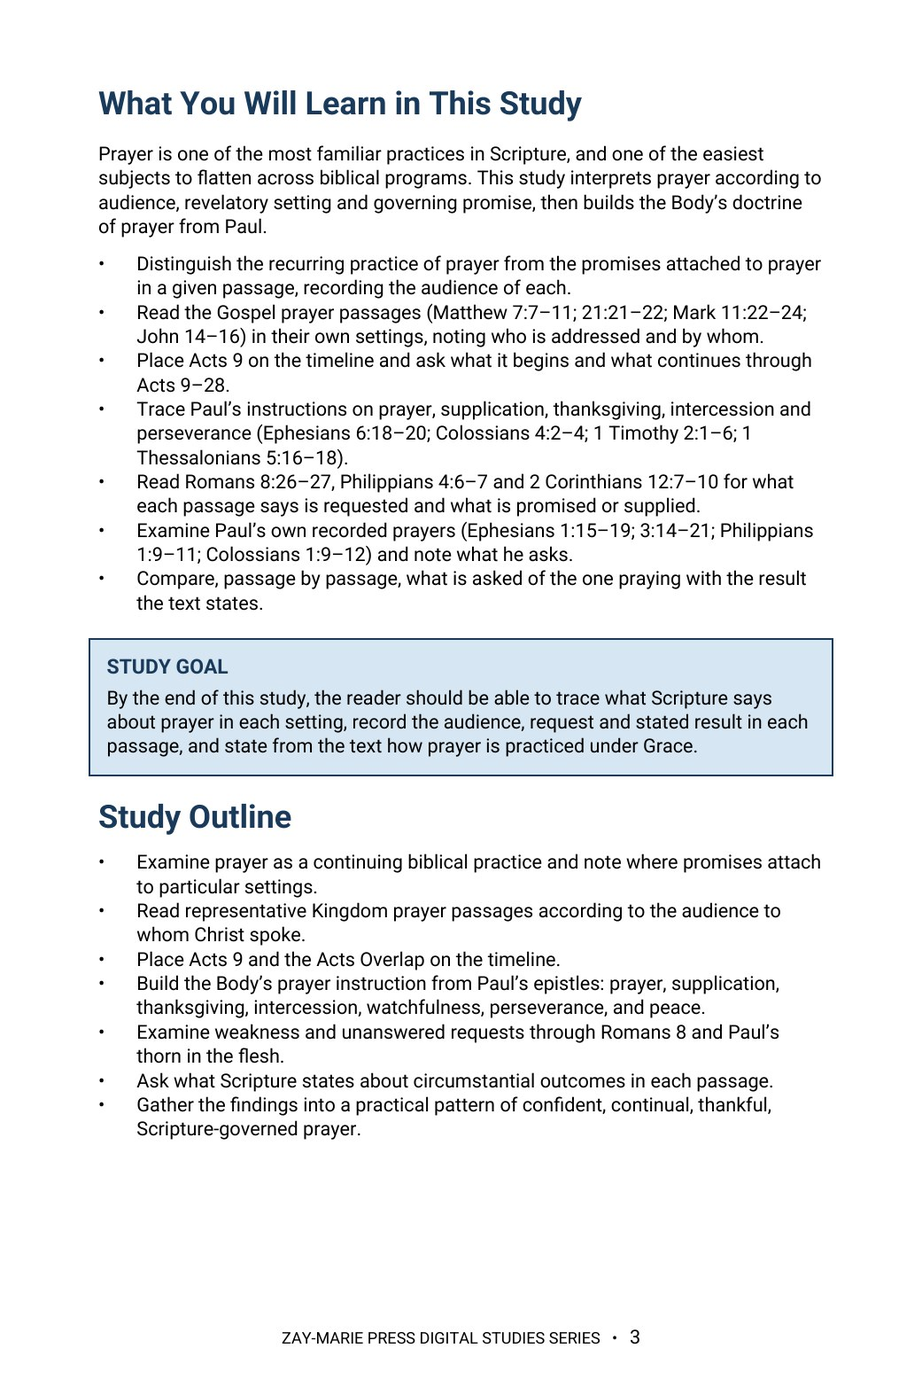
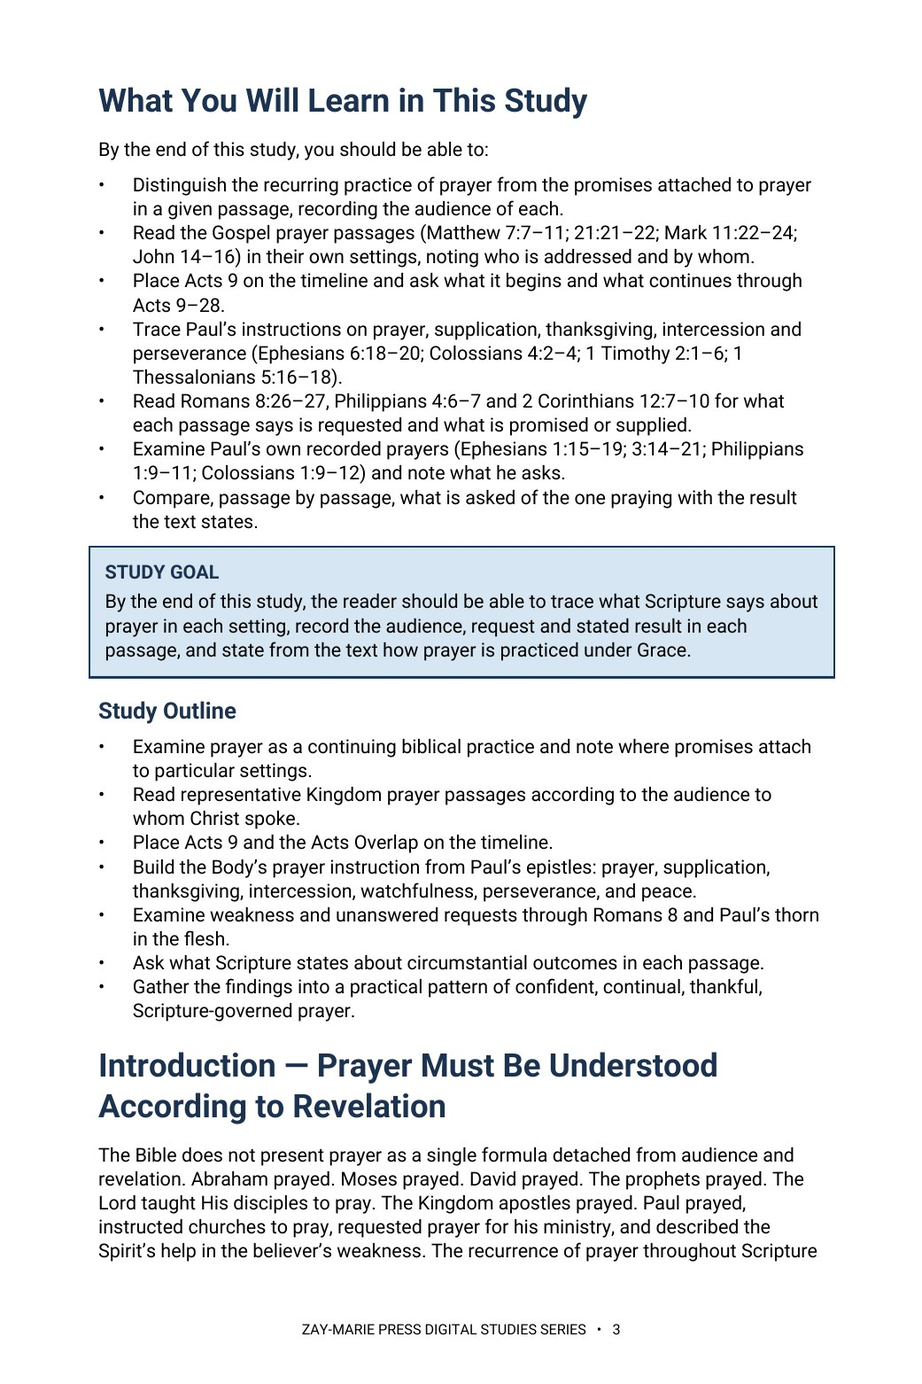
Study 22: rebuilt in Roboto 10 pt on current page (15 pages); previews 2, 3, 4 re-rendered; site.js 22:15; trackers v1.107/v1.201
Claude-Session: https://claude.ai/code/session_01HC7bs9KYP2scp4hCL6DkTp

Changed region(s): [[0.0922, 0.0615, 0.9222, 0.9219], [0.3074, 0.9526, 0.6455, 0.9834]]

diff --git a/study-22-prayer-under-grace.html b/study-22-prayer-under-grace.html
@@ -14,7 +14,7 @@
   <body class="study-detail-page">
     <header class="site-header"><div class="wrap nav"><a class="logo" href="index.html" aria-label="Zay-Marie Press home"><img src="assets/zay-marie-press-logo-hq.png" alt="Zay-Marie Press" width="420" height="238" /></a><button class="menu-toggle" type="button" aria-expanded="false" aria-controls="primary-nav">MENU</button><nav aria-label="Primary navigation" class="primary-nav" id="primary-nav"><a href="index.html">HOME</a><a href="books.html">BOOKS</a><a href="series.html">SERIES</a><a class="active" aria-current="page" href="digital-studies.html">DIGITAL STUDIES</a><a href="biblical-hermeneutics-course.html">COURSE</a><a href="about.html">ABOUT</a><a href="resources.html">RESOURCES</a><a href="contact.html">CONTACT</a></nav></div></header>
     <main>
-      <section class="detail-hero"><div class="wrap detail-hero-grid"><div class="detail-cover"><picture><source srcset="assets/study-22-cover.webp" type="image/webp"><img src="assets/study-22-cover.jpg" alt="Prayer Under Grace - Study 22 cover" /></picture></div><div><div class="eyebrow">STUDY 22 · DIGITAL STUDY</div><h1>Prayer Under Grace</h1><p class="detail-subtitle">Understanding Prayer in the Believer’s Grace Standing, Not Covenant Obligation</p><p class="detail-kicker">A Biblical Study of Kingdom Promises, Pauline Instruction, and Confident Prayer</p><p class="detail-copy">Prayer remains vital under Grace, but every biblical prayer promise must be read in the audience and revelatory setting in which God gave it. Kingdom promises spoken to Israel and the Twelve retain their full force in their own setting; Paul’s instruction gives the Body of Christ its governing doctrine of prayer.</p><p class="detail-copy">This study traces Paul’s teaching on requests, thanksgiving, intercession, peace, weakness, and sufficient grace. It equips believers to pray confidently, specifically, and continually while resting in God’s wisdom and will.</p><div class="detail-buyline"><span class="detail-price">$5.99</span><span class="detail-format">Digital PDF · 16 Pages</span><span class="detail-button pending" aria-disabled="true">Checkout Coming Soon</span></div></div></div></section>
+      <section class="detail-hero"><div class="wrap detail-hero-grid"><div class="detail-cover"><picture><source srcset="assets/study-22-cover.webp" type="image/webp"><img src="assets/study-22-cover.jpg" alt="Prayer Under Grace - Study 22 cover" /></picture></div><div><div class="eyebrow">STUDY 22 · DIGITAL STUDY</div><h1>Prayer Under Grace</h1><p class="detail-subtitle">Understanding Prayer in the Believer’s Grace Standing, Not Covenant Obligation</p><p class="detail-kicker">A Biblical Study of Kingdom Promises, Pauline Instruction, and Confident Prayer</p><p class="detail-copy">Prayer remains vital under Grace, but every biblical prayer promise must be read in the audience and revelatory setting in which God gave it. Kingdom promises spoken to Israel and the Twelve retain their full force in their own setting; Paul’s instruction gives the Body of Christ its governing doctrine of prayer.</p><p class="detail-copy">This study traces Paul’s teaching on requests, thanksgiving, intercession, peace, weakness, and sufficient grace. It equips believers to pray confidently, specifically, and continually while resting in God’s wisdom and will.</p><div class="detail-buyline"><span class="detail-price">$5.99</span><span class="detail-format">Digital PDF · 15 Pages</span><span class="detail-button pending" aria-disabled="true">Checkout Coming Soon</span></div></div></div></section>
       <section class="detail-section"><div class="wrap"><div class="eyebrow">ABOUT THIS STUDY</div><h2>What Does Prayer Under Grace Mean?</h2><p class="lead">Prayer did not begin with the Mystery, and it is not diminished under Grace. Scripture records prayer throughout its history, yet a recurring practice does not make every promise attached to prayer identical for every audience.</p><p class="lead">This study reads the Kingdom prayer promises in their original setting, preserves the Acts Overlap of Prophecy and Mystery, and builds the Body’s practice of prayer from the revelation given through Paul. It shows how Philippians 4, Romans 8, and 2 Corinthians 12 shape confident prayer when circumstances remain unchanged.</p><p class="lead">This is not a study of the believer’s whole standing in Christ, which Study 16 surveys in full, nor of the general method for learning from Scripture addressed to Israel, which Study 39 supplies, nor of another practice reframed under grace, which Study 47 traces for giving. Its task is narrower: to read the Kingdom’s own prayer promises in their original setting, and to build the Body’s actual practice of prayer from what Paul himself reveals — not from a Kingdom-era promise transferred without its terms.</p><div class="study-distinction"><h3>How These Studies Relate</h3><p>Study 22 establishes prayer under grace from Paul while reading Kingdom prayer promises in their own setting.</p><p><a href="study-16-the-believers-identity-in-christ.html">Study 16 — The Believer's Identity in Christ</a> Place prayer within the believer’s present standing in Christ; this helps relate confidence before God to daily practice without promising a particular change in circumstances.</p><p><a href="study-39-the-churchs-relationship-to-israels-scriptures.html">Study 39 — The Church’s Relationship to Israel’s Scriptures</a> Use the distinction between learning from earlier Scripture and claiming a promise addressed to another audience when reading prayer teaching outside Paul’s letters.</p><p><a href="study-47-giving-under-grace.html">Study 47 — Giving Under Grace</a> Compare another practice of the believer's daily life reframed under grace rather than under a Kingdom-era command, the same interpretive move this study applies to prayer.</p><p class="connection-guide-link"><a href="study-connections.html#study-22">Explore the full connection guide for Study 22 →</a></p></div><div class="cross-strand-note"><p class="cross-strand-label">FROM THE PARABLES STRAND</p><p>The Friend and the Persistent Widow gives a related but distinct prayer instruction, addressed to Kingdom hearers rather than the Body of Christ.</p><p><a href="parable-25-the-friend-and-the-persistent-widow.html">The Friend and the Persistent Widow</a></p></div></div></section>
       <section class="detail-section soft"><div class="wrap"><div class="eyebrow">WHAT YOU’LL STUDY</div><h2>Build a Confident Pattern of Prayer Under Grace</h2><div class="study-points">
         <div class="study-point"><h3>Prayer Across Scripture</h3><p>Trace prayer's presence across the Old Testament, the Gospels, and Acts, and ask which audience and setting each recorded promise actually addresses.</p></div>
@@ -41,7 +41,7 @@
         <div class="preview-card"><a class="preview-image-link" data-preview-lightbox href="assets/study-22-page-4.jpg"><img src="assets/study-22-page-4.jpg" alt="Study 22 interior preview — page 4, Introduction" /></a><div class="page-no">Page 4</div><h3>Introduction</h3><p>See how the study frames prayer by audience, revelation and governing promise.</p></div>
       </div></div></section>
       <section class="detail-section"><div class="wrap"><div class="eyebrow">WHAT’S INCLUDED</div><h2>A Focused Study Built for<br />Understanding and Teaching</h2><div class="includes-grid">
-        <div class="include-item"><h3>16-Page Biblical Study</h3><p>A focused study of Kingdom prayer promises and Pauline instruction for the Body of Christ.</p></div>
+        <div class="include-item"><h3>15-Page Biblical Study</h3><p>A focused study of Kingdom prayer promises and Pauline instruction for the Body of Christ.</p></div>
         <div class="include-item"><h3>A Full Teaching Outline</h3><p>Follow the argument from Kingdom prayer promises to Paul's own commands for the Body.</p></div>
         <div class="include-item"><h3>Pauline Prayer Instruction</h3><p>Trace requests, thanksgiving, intercession, peace, and sufficient grace through Paul's own letters.</p></div>
         <div class="include-item"><h3>Kingdom Promise Context</h3><p>Examine Christ's upper-room prayer promises in their own setting before any later application.</p></div>
@@ -50,7 +50,7 @@
         <div class="include-item"><h3>Scripture-Tracing Exercise</h3><p>Trace Kingdom and Pauline passages in their own audiences and revealed settings.</p></div>
         <div class="include-item"><h3>Teaching and Discussion Tools</h3><p>Use review questions, a teaching outline, further study, and final synthesis for personal or group use.</p></div>
       </div></div></section>
-      <section class="detail-section cream"><div class="wrap"><div class="final-buy"><div><div class="eyebrow">STUDY 22 · DIGITAL STUDY</div><h2>Prayer Under Grace</h2><p>16-page digital PDF · For personal use</p></div><div class="final-offer"><div class="detail-price">$5.99</div><span class="detail-button pending" aria-disabled="true">Checkout Coming Soon</span></div></div><a class="back-link" href="digital-studies.html">← Back to All Digital Studies</a></div></section>
+      <section class="detail-section cream"><div class="wrap"><div class="final-buy"><div><div class="eyebrow">STUDY 22 · DIGITAL STUDY</div><h2>Prayer Under Grace</h2><p>15-page digital PDF · For personal use</p></div><div class="final-offer"><div class="detail-price">$5.99</div><span class="detail-button pending" aria-disabled="true">Checkout Coming Soon</span></div></div><a class="back-link" href="digital-studies.html">← Back to All Digital Studies</a></div></section>
     <section class="study-method-course-bridge"><div class="wrap"><div class="study-method-course-panel"><div><div class="eyebrow">BUILD THE INTERPRETIVE METHOD</div><h2>Want More Than a Focused Study?</h2><p>Digital Studies examine particular biblical subjects and difficult passages. The 40-lesson Biblical Hermeneutics course teaches a complete, repeatable method for establishing meaning in context, determining proper assignment, and making responsible application.</p></div><a class="btn btn-primary" href="biblical-hermeneutics-course.html">BIBLICAL HERMENEUTICS COURSE</a></div></div></section></main><footer class="site-footer"><div class="wrap footer-grid"><div class="footer-about"><h3>Zay-Marie Press</h3><p class="footer-tagline"><em>Where the Bible Means What It Says.</em></p><p>Zay-Marie Press is a Christian theological publisher dedicated to producing doctrinally precise, carefully structured biblical resources that equip pastors, teachers, and serious students with clarity, depth, and Scripture-anchored truth.</p><p><a href="https://zaymariepress.com">zaymariepress.com</a><br/><a href="mailto:info@zaymariepress.com">info@zaymariepress.com</a></p></div><div class="footer-column"><h3>Explore</h3><div class="footer-links-stacked"><a href="books.html">Books</a><br/><a href="series.html">Series</a><br/><a href="biblical-hermeneutics-course.html">Course</a><br/><a href="digital-studies.html">Digital Studies</a><br/><a href="resources.html">Resources</a><br/><a href="bible-book-summaries.html">Bible Book Summaries</a><br/><a href="doctrinal-packets.html">Doctrinal Packets</a><br/><a href="historical-drift.html">Historical Drift</a><br/><a href="about.html">About</a><br/><a href="contact.html">Contact</a></div></div><div class="footer-column"><h3>Reader Support</h3><div class="footer-links-stacked"><a href="reader-support.html#faq">FAQ</a><br/><a href="reader-support.html#shipping-returns">Shipping &amp; Returns</a><br/><a href="reader-support.html#digital-downloads">Digital Downloads</a><br/><a href="reader-support.html#contact-support">Contact Support</a></div></div><div class="footer-column"><h3>Acts Overlap</h3><p><strong>Acts Overlap Theology Series</strong></p><p><em>Two Distinct Streams. One Overlap.</em></p><p><a href="series.html">Series Overview</a></p></div></div><div class="wrap footer-bottom">© 2026 Zay-Marie Press. All rights reserved.</div></footer>
     <div class="preview-lightbox" id="preview-lightbox" role="dialog" aria-modal="true" aria-label="Expanded study preview"><button class="preview-lightbox-close" type="button" aria-label="Close preview">×</button><img id="preview-lightbox-image" alt="" /></div>
     <script>

diff --git a/site.js b/site.js
@@ -62,7 +62,7 @@ const resourceModal=document.querySelector('#resource-modal'), resourceModalTitl
 if(resourceModal&&resourceModalTriggers.length){const closeResourceModal=()=>{resourceModal.hidden=true;document.body.classList.remove('resource-modal-open');lastResourceTrigger?.focus();};resourceModalTriggers.forEach(trigger=>trigger.addEventListener('click',()=>{lastResourceTrigger=trigger;if(resourceModalTitle)resourceModalTitle.textContent=trigger.dataset.title||'Resource';if(resourceModalDescription)resourceModalDescription.textContent=trigger.dataset.description||'';if(resourceModalLink){resourceModalLink.href=trigger.dataset.href||'#';resourceModalLink.textContent=trigger.dataset.linkText||'OPEN RESOURCE';}resourceModal.hidden=false;document.body.classList.add('resource-modal-open');resourceModalClose?.focus();}));resourceModalClose?.addEventListener('click',closeResourceModal);resourceModal.addEventListener('click',e=>{if(e.target===resourceModal)closeResourceModal();});document.addEventListener('keydown',e=>{if(e.key==='Escape'&&!resourceModal.hidden)closeResourceModal();});}
 
 /* Display the verified final-PDF page count at the primary purchase decision point. */
-const digitalStudyPageCounts={1:17,2:19,3:16,4:17,5:15,6:15,7:14,8:13,9:15,10:20,11:15,12:15,13:18,14:15,15:15,16:16,17:17,18:18,19:16,20:15,21:16,22:16,23:14,24:16,25:17,26:16,27:16,28:16,29:19,30:17,31:18,32:19,33:18,34:16,35:16,36:16,37:16,38:16,39:16,40:16,41:16,42:17,43:17,44:19,45:19,46:20,47:19,48:18,49:20,50:19,51:20,52:19,53:19,54:17,55:20,56:20,57:20,58:19,59:20,60:15,61:16,62:18,63:17,64:17,65:16,66:16,67:17,68:16,69:17,70:17,71:16};
+const digitalStudyPageCounts={1:17,2:19,3:16,4:17,5:15,6:15,7:14,8:13,9:15,10:20,11:15,12:15,13:18,14:15,15:15,16:16,17:17,18:18,19:16,20:15,21:16,22:15,23:14,24:16,25:17,26:16,27:16,28:16,29:19,30:17,31:18,32:19,33:18,34:16,35:16,36:16,37:16,38:16,39:16,40:16,41:16,42:17,43:17,44:19,45:19,46:20,47:19,48:18,49:20,50:19,51:20,52:19,53:19,54:17,55:20,56:20,57:20,58:19,59:20,60:15,61:16,62:18,63:17,64:17,65:16,66:16,67:17,68:16,69:17,70:17,71:16};
 const digitalStudyMatch=window.location.pathname.match(/\/study-(\d+)-/i);
 const digitalStudyFormat=document.querySelector('.detail-hero .detail-format');
 if(digitalStudyMatch&&digitalStudyFormat){const studyNumber=Number(digitalStudyMatch[1]),pageCount=digitalStudyPageCounts[studyNumber];if(pageCount)digitalStudyFormat.textContent=`Digital PDF · ${pageCount} Pages`;}

diff --git a/CLAUDE.md b/CLAUDE.md
@@ -23,7 +23,7 @@ These are kept in the repo at `controlling-documents/` and are the current versi
 - As of v1.50 (publisher directive, 2026-10-03), the **What You Will Learn in This Study** section is always bulleted, never set as running paragraphs, written into this file in the same pass (Master Standard Section 3 item 4, Section 6 structure line, Section 22): a list of bullet points, each describing one process, textual marker or interpretive discipline the reader will practice (Section 17 still governs what they may say); at most one short lead-in line may stand above the bullets (for example, “By the end of this study, you should be able to:”); the Study Goal callout and the Study Outline keep their own forms. It governs every new study and every study rebuilt or retrofitted from now on; earlier studies take it when reopened or when the publisher directs. In every study check (Step 1), report whether the section is bulleted. First applied to Study 43.
 **`controlling-documents/Digital_Studies_Relationship_Map_v1.39.md`** — records each study's distinct subject, its related studies, the eight priced six-study collections, the Paul's Missionary Journeys cross-reference map, and the five primary catalog categories (currently version 1.39, covers Studies 1–71; update it as new studies publish, bump the version number, rename the file to match, and log the change in its own version-history table — mirroring the Master Standard's `_vX.Y` filename convention). Check a proposed topic against it before recommending or writing a new study. (2026-09-28: the file was missing from this repo despite this note referencing it; replaced from the publisher's copy and bumped v1.15→v1.25 in the same pass. If this note ever again points to a version not present under `controlling-documents/`, ask the publisher for a copy rather than proceeding without the check.)
 - **`controlling-documents/Digital_Studies_Category_Standard_v1.1.md`** — FINAL and binding (publisher, 2026-10-01): the rules for the five primary catalog categories (Foundations, Israel & Prophecy, Body of Christ, Passages, Doctrinal Themes), the ordered decision procedure for new studies, the precedents, all 71 fixed assignments, and the cover-label form for each category. Read it before placing any card or cover label. Do not ask the publisher where a study belongs; apply the procedure and state the result. Only the publisher changes a ruling; then bump this Standard's version and filename, re-letter the cover, and update the Relationship Map.
-- **`controlling-documents/Doctrinal_Upgrade_Retrofit_Plan_v1.106.md`** — working tracker for retrofitting Studies 1–59 to the 2026-10-02 doctrinal upgrade (Framework/PAM v1.1, Master Standard v1.40, Rules 7–17): withdrawn-wording search keys, impact tiers, waves and the per-study method. Read it before continuing the retrofit in any session; update status, bump the version and rename the file as work proceeds.
+- **`controlling-documents/Doctrinal_Upgrade_Retrofit_Plan_v1.107.md`** — working tracker for retrofitting Studies 1–59 to the 2026-10-02 doctrinal upgrade (Framework/PAM v1.1, Master Standard v1.40, Rules 7–17): withdrawn-wording search keys, impact tiers, waves and the per-study method. Read it before continuing the retrofit in any session; update status, bump the version and rename the file as work proceeds.
 - **`controlling-documents/Doctrinal_Packet_Standard_v0.3.md`** — Doctrinal Packet Standard (DRAFT; §7 approved). Governs the separate Doctrinal Packets product strand (5-page interpretive PDFs per Bible book — a print-friendly cover as page 1 plus 4 content pages, $2.99, KJV, pilot: Genesis, live at `packet-genesis.html`, hub `doctrinal-packets.html`; site pages say "5 Pages", cover styles live in `packets.css`, Old Testament blue and New Testament soft pale green, hub listed in Bible order). **Preview rule (publisher directive, 2026-09-29, packets only):** previews show about one page's worth in two cropped views (top of page 1 through the anchor texts; the chart section) — never the exegesis, architecture, Mystery contrast, logic chain, outline, or closing. Master Standard §16/§17 still govern Digital Studies. Bump the version and rename the file as the Standard is finalized.
 - **`controlling-documents/Preview_Page_Spoiler_Retrofit_Audit_v1.4.md`** — working tracker for the Studies 1–60 preview-page conclusion-spoiler retrofit (see the section below). Read it before continuing that audit in any session; update its status fields and changelog, bump the version, and rename the file to match as the audit proceeds — same `_vX.Y` convention as the other controlling documents. As of v1.1, the website-side half was DONE: all 60 studies' "What You'll Study" text was judged against the rule (methodology documented in the file) and 22 points across 11 studies were rewritten and pushed; an unrelated Study 22 content bug (Study 21's content had leaked into it) was also found and fixed. As of v1.2, the publisher supplied Studies 1–60's interior production PDFs and the interior-PDF half was also surveyed (read-only): 10 studies (37, 41, 45, 47, 48, 49, 51, 52, 53, 54) were found to have at least one interior "What You Will Learn" violation, 50 studies were confirmed compliant, and the orphaned `assets/study-45-sanctification-under-grace.docx` (removed from the repo per the publisher in v1.0) was confirmed word-for-word identical to Study 45's actual production interior PDF content. As of v1.3, the publisher supplied editable DOCX sources for all 10 violating studies; all 15 violating points were rewritten and approved, delivered as corrected final PDFs, and — along the way — a second defect was found and fixed (Studies 47 and 48's source DOCX still had an unintegrated cover placeholder despite both being long-published live with real covers; fixed by inserting the existing approved cover art). The website's "What You Will Learn" preview image (`study-NN-page-3.jpg`) was regenerated from the corrected content for all 10 studies and pushed to `main` (commit `cea1859`), verified against a fresh clone. **The website side of this audit is now fully compliant for all 60 studies.** Outstanding: the publisher's purchasable interior PDF files themselves have corrected versions delivered, but distribution to existing purchasers was decided by the publisher on 2026-09-29: silent swap of the files behind the existing downloads, no reissue notice (recorded in the v1.4 changelog entry; the product files are not in this repo).
 

diff --git a/controlling-documents/Doctrinal_Upgrade_Retrofit_Plan_v1.107.md b/controlling-documents/Doctrinal_Upgrade_Retrofit_Plan_v1.107.md
@@ -199,3 +199,4 @@ Working tracker for correcting published studies to the Framework/PAM v1.1, Mast
 - v1.104 (2026-10-04): Study 19 rebuilt in Roboto at 10 pt on the current page, 16 pages (unchanged count; old 432×648 page retired). WYWL opening paragraph removed and lead-in added (eight bullets already process lines, kept); standing Cornelius sentence completed in section 2; overlap and Rule 17 sentences added to section 8; Teaching Outline numbered; six content tables kept; no internal terms found. Previews 2, 3 and 4 re-rendered at 1041×1562; site.js 19:16 unchanged; study page 16 pages.
 - v1.105 (2026-10-04): Study 20 rebuilt in Roboto at 10 pt on the current page, 15 pages (was 16 on the old 432×648 page). WYWL opening paragraph removed and lead-in added (eight bullets already process lines, kept); 'framework' wording removed (4); Rule 19 conforming sentence in section 6 ('The ground of forgiveness is God’s grace, not the rite, and what Peter’s hearers are to believe is what he has just declared: that God has made this Jesus both Lord and Christ (Acts 2:36).') replacing 'The saving work is God’s work in Christ'; Acts 28 national suspension with no chronology; overlap, Rule 17 and Rule 11 sentences added to section 10; Teaching Outline numbered; seven content tables kept; Cornelius sentence not added (Acts 10:44–48 appears only as a tracing passage). Previews 2, 3 and 4 re-rendered at 1041×1562; site.js 20:15; study page 15 pages.
 - v1.106 (2026-10-04): Study 21 rebuilt in Roboto at 10 pt on the current page, 16 pages (was 17 on the old 432×648 page). WYWL opening paragraph removed and lead-in added (eight bullets already process lines, kept); 'The Framework classifies the remnant…' and the withdrawn 'gathered into the Body' clarifier replaced (remnant is Israel’s believing remnant, not the Body, never becomes the Body, stays outside the Body, Mystery Program and heavenly calling); 'framework' wording removed (5); full Romans 11 depth added (four boundaries, triad, 'Identity is fixed by divine program, not by metaphor', concurrency close, Gentile-salvation line); Rule 18 full sentence added after the Acts 28 sequence paragraph; overlap and Rule 17 sentences added to section 5; Acts 28 callout 'not a cancellation, transfer or absorption' and no-further-chronology sentence; Teaching Outline numbered; five content tables kept. Previews 2, 3 and 4 re-rendered at 1041×1562 (page 4 relabelled Isaiah 6 and the Language of Hardening); site.js 21:16; study page 16 pages.
+- v1.107 (2026-10-04): Study 22 rebuilt in Roboto at 10 pt on the current page, 15 pages (was 16 on the old 432×648 page). WYWL opening paragraph removed and lead-in added (seven bullets already process lines, kept); 'The Framework assigns John 14…' reworded to 'John 14 belongs to the Prophecy Program…'; overlap and Rule 17 sentences added to section 6; Teaching Outline numbered; four content tables kept. Previews 2, 3 and 4 re-rendered at 1041×1562; site.js 22:15; study page 15 pages.

diff --git a/controlling-documents/Digital_Studies_PAM_Audit_v1.201.md b/controlling-documents/Digital_Studies_PAM_Audit_v1.201.md
@@ -430,3 +430,4 @@ Study 15 PDF not yet supplied. Typography: none of Studies 2, 3, 6, 8 is in EB G
 - v1.198 (2026-10-04): Study 19 rebuilt in Roboto at 10 pt on the current page, 16 pages; WYWL lead-in added; Cornelius, overlap and Rule 17 sentences added; Teaching Outline numbered (see Retrofit Plan v1.104).
 - v1.199 (2026-10-04): Study 20 rebuilt in Roboto at 10 pt on the current page, 15 pages; WYWL lead-in added; Rule 19 forgiveness sentence conformed; Acts 28 national suspension, no chronology; overlap, Rule 17 and Rule 11 sentences added; Teaching Outline numbered (see Retrofit Plan v1.105).
 - v1.200 (2026-10-04): Study 21 rebuilt in Roboto at 10 pt on the current page, 16 pages; remnant paragraph conformed (withdrawn wording removed); full Romans 11 depth and Rule 18 full sentence added; overlap and Rule 17 sentences added; Acts 28 not a cancellation, transfer or absorption; Teaching Outline numbered (see Retrofit Plan v1.106).
+- v1.201 (2026-10-04): Study 22 rebuilt in Roboto at 10 pt on the current page, 15 pages; Framework wording removed from John 14 sentence; overlap and Rule 17 sentences added; Teaching Outline numbered (see Retrofit Plan v1.107).
